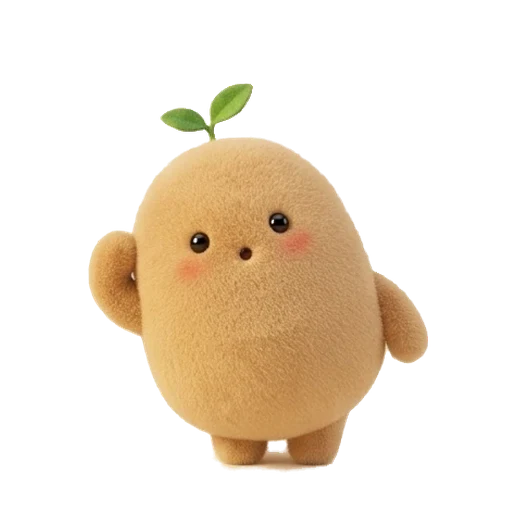
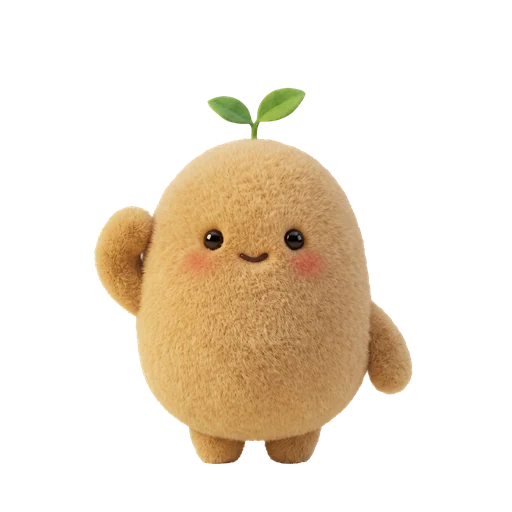
Replace Ankur sheet crops with clean high-resolution poses

Changed region(s): [[0.1562, 0.1562, 0.8438, 0.9375], [0.3438, 0.5312, 0.375, 0.5625]]

diff --git a/AnnaData-Frontend-main/src/Config/avatar.js b/AnnaData-Frontend-main/src/Config/avatar.js
@@ -1,8 +1,8 @@
 /**
  * Ankur, the voice companion, in its regional looks. Master Ankur is the default;
  * a farmer will be able to pick another later (the choice is kept on this
- * phone). WebP assets share a 512 px canvas. Master expressions are sheet crops,
- * not native 512 px renders; see docs/mascot/astra-implementation.md.
+ * phone). WebP assets share a 512 px canvas. Master expressions come from the
+ * founder's 2048 px renders; see docs/mascot/clean-poses/README.md.
  */
 export const AVATARS = [
   { id: "master", region: "Master Ankur", look: "The essential seed" },
@@ -23,9 +23,8 @@ const POSES = ["listen", "think", "talk-open", "talk-half"];
 /** The pictures for each voice-mode moment, or null for a single-picture look. */
 export function posesOf(avatar) {
   if (!POSED.includes(avatar.id)) return null;
-  // The sheets contain different talking renders, not a registered mouth pair.
-  // Hold one talking pose for Master rather than making its arms/body jump.
-  const at = (pose) => `${process.env.PUBLIC_URL || ""}/avatars/ankur-${avatar.id}-${avatar.id === 'master' && pose === 'talk-half' ? 'talk-open' : pose}.webp`;
+  // Master's talking pair shares one body, with only the mouth region changing.
+  const at = (pose) => `${process.env.PUBLIC_URL || ""}/avatars/ankur-${avatar.id}-${pose}.webp`;
   return { hello: avatar.src, ...Object.fromEntries((avatar.id === "master" ? [...POSES, "sorry", "success"] : POSES).map((p) => [p, at(p)])) };
 }
 

diff --git a/AnnaData-Frontend-main/src/Config/avatar.test.js b/AnnaData-Frontend-main/src/Config/avatar.test.js
@@ -23,6 +23,7 @@ test('Master Ankur acts in every voice-mode pose; a look without poses has none'
   const poses = posesOf(currentAvatar());
   expect(Object.keys(poses)).toEqual(['hello', 'listen', 'think', 'talk-open', 'talk-half', 'sorry', 'success']);
   expect(poses.listen).toMatch(/avatars\/ankur-master-listen\.webp$/);
-  expect(poses['talk-half']).toBe(poses['talk-open']); // no body flicker between unmatched sheet renders
+  expect(poses['talk-half']).toMatch(/avatars\/ankur-master-talk-half\.webp$/);
+  expect(poses['talk-half']).not.toBe(poses['talk-open']);
   expect(posesOf(AVATARS.find((a) => a.id === 'punjab'))).toBeNull();
 });

diff --git a/AnnaData-Frontend-main/tools/prepare_ankur.py b/AnnaData-Frontend-main/tools/prepare_ankur.py
@@ -1,0 +1,72 @@
+"""Extract the founder's seven 2048px renders, using Pillow only.
+
+Usage: python tools/prepare_ankur.py SOURCE_DIRECTORY OUTPUT_DIRECTORY
+Neutral background removal is limited to the exterior, preserving eye glints.
+All renders retain their original shared framing. No image generation is used.
+"""
+from pathlib import Path
+import sys
+from PIL import Image, ImageDraw, ImageFilter, ImageChops
+
+FILES = {
+    'hello': '1.png', 'listen': '2.png', 'think': '3.png',
+    'talk-half': '33.png',
+    'talk-open': 'Gemini_Generated_Image_rbjkubrbjkubrbjk.png',
+    'sorry': 'Gemini_Generated_Image_sgukhbsgukhbsguk.png',
+    'success': 'Gemini_Generated_Image_ytiki6ytiki6ytik.png',
+}
+
+
+def extract(path):
+    im = Image.open(path).convert('RGB')
+    if im.size != (2048, 2048):
+        raise ValueError(f'Unexpected source dimensions: {path}')
+    # Mark only neutral, bright pixels as candidates for background removal.
+    candidates = Image.new('L', im.size)
+    candidates.putdata([255 if min(p) > 110 and max(p)-min(p) < 46 else 0
+                        for p in im.getdata()])
+    ImageDraw.floodfill(candidates, (0, 0), 128, thresh=0)
+    alpha = candidates.point(lambda p: 0 if p == 128 else 255)
+    # One source-pixel contraction removes checkerboard contamination at the edge;
+    # the very small feather retains a natural outline when downsampled.
+    alpha = alpha.filter(ImageFilter.MinFilter(3)).filter(ImageFilter.GaussianBlur(.6))
+    im.putalpha(alpha)
+    return im
+
+
+def export_assets(out, assets):
+    images = {pose: Image.open(out / f'{pose}.png').convert('RGBA') for pose in FILES}
+    # Lock the body, eyes, lighting and alpha to the open frame. Only the mouth
+    # changes, avoiding texture/geometry flicker between independent renders.
+    mask = Image.new('L', (2048, 2048))
+    ImageDraw.Draw(mask).ellipse((914, 873, 1122, 1045), fill=255)
+    mask = mask.filter(ImageFilter.GaussianBlur(8))
+    images['talk-half'] = Image.composite(images['talk-half'], images['talk-open'], mask)
+    images['talk-half'].save(out / 'talk-half.png')
+    assert ImageChops.difference(images['talk-half'].convert('RGB'), images['talk-open'].convert('RGB')).crop((0, 0, 2048, 800)).getbbox() is None
+    for pose, im in images.items():
+        canvas = Image.new('RGBA', (512, 512))
+        canvas.alpha_composite(im.resize((500, 500), Image.Resampling.LANCZOS), (6, 31))
+        suffix = '' if pose == 'hello' else '-' + pose
+        canvas.save(assets / f'ankur-master{suffix}.webp', quality=88, method=6)
+
+
+def main():
+    source, out = map(Path, sys.argv[1:3])
+    out.mkdir(parents=True, exist_ok=True)
+    preview = Image.new('RGB', (7*256, 2*280), '#fffaf2')
+    for i, (pose, filename) in enumerate(FILES.items()):
+        im = extract(source / filename)
+        im.save(out / f'{pose}.png')
+        for row, bg in enumerate(('#fffaf2', '#18382b')):
+            tile = Image.new('RGBA', (256, 280), bg)
+            tile.alpha_composite(im.resize((256, 256), Image.Resampling.LANCZOS))
+            ImageDraw.Draw(tile).text((12, 260), pose, fill='white' if row else 'black')
+            preview.paste(tile.convert('RGB'), (i*256, row*280))
+        print(pose, im.getchannel('A').getbbox(), flush=True)
+    preview.save(out / 'review.jpg', quality=92)
+    export_assets(out, Path(__file__).resolve().parents[1] / 'public/avatars')
+
+
+if __name__ == '__main__':
+    main()

diff --git a/docs/mascot/clean-poses/README.md b/docs/mascot/clean-poses/README.md
@@ -1,0 +1,33 @@
+# Master Ankur transparent renders
+
+Prepared from the founder's seven 2048 × 2048 PNGs on 12 November 2026.
+These replace the smaller brand-sheet crops in the frontend. Original downloads
+remain unchanged. The PNGs here have real alpha; the checkerboard is removed.
+
+`AnnaData-Frontend-main/tools/prepare_ankur.py` uses Pillow only. Run it with the
+source directory and this output directory as arguments, from the repository root.
+The source filename mapping is recorded in `FILES` in that script.
+
+The extraction flood-fills bright neutral background pixels from the exterior,
+preserving enclosed eye highlights. A one-source-pixel contraction and 0.6-pixel
+feather reduce grey edge contamination. This is a deterministic cutout, not an
+exact recovery of every original translucent fur strand.
+
+The two source talking images differ in texture as well as mouth size. The final
+half-open PNG uses the open-mouth image's body, eyes, alpha and lighting, with a
+feathered mouth-only patch from the smaller-mouth render. The two mouths have a
+subtle size difference; no new expression was invented.
+
+All app exports use the same 500-pixel scaling and (6, 31) placement on a 512-pixel
+canvas, preserving torso alignment rather than centering different arm silhouettes.
+The seven WebP files total approximately 190 KB. High-resolution PNGs are kept here
+for future editing and are not included in the frontend's public asset directory.
+
+Visual checks: all seven poses on cream and dark green backgrounds, plus enlarged
+sprout/edge and mouth-patch inspection. Frontend: 13 suites, 114 tests passed.
+Existing React test warnings and outdated Browserslist warnings remain.
+
+The production build passed. Headless Chrome checks of that build at 375 × 812
+(home) and 360 × 780 (voice listening with a fake microphone) showed clean artwork;
+home had no horizontal overflow. This does not verify a physical phone microphone
+or the full live speech loop. Temporary browser profiles and screenshots were removed.

diff --git a/docs/mascot/astra-implementation.md b/docs/mascot/astra-implementation.md
@@ -1,5 +1,9 @@
 # Master Ankur and bilingual screens
 
+Update, 12 November 2026: the sheet-crop artwork described below is superseded by
+the [clean high-resolution poses](clean-poses/README.md), including a registered
+mouth pair. The screen and language behavior documented here is unchanged.
+
 The default is the plain Master Ankur. An explicitly saved regional preference
 still wins. The crop script in `AnnaData-Frontend-main/tools/crop_master_ankur.py`
 uses the founder's two source sheets and records measured torso anchors. Every
